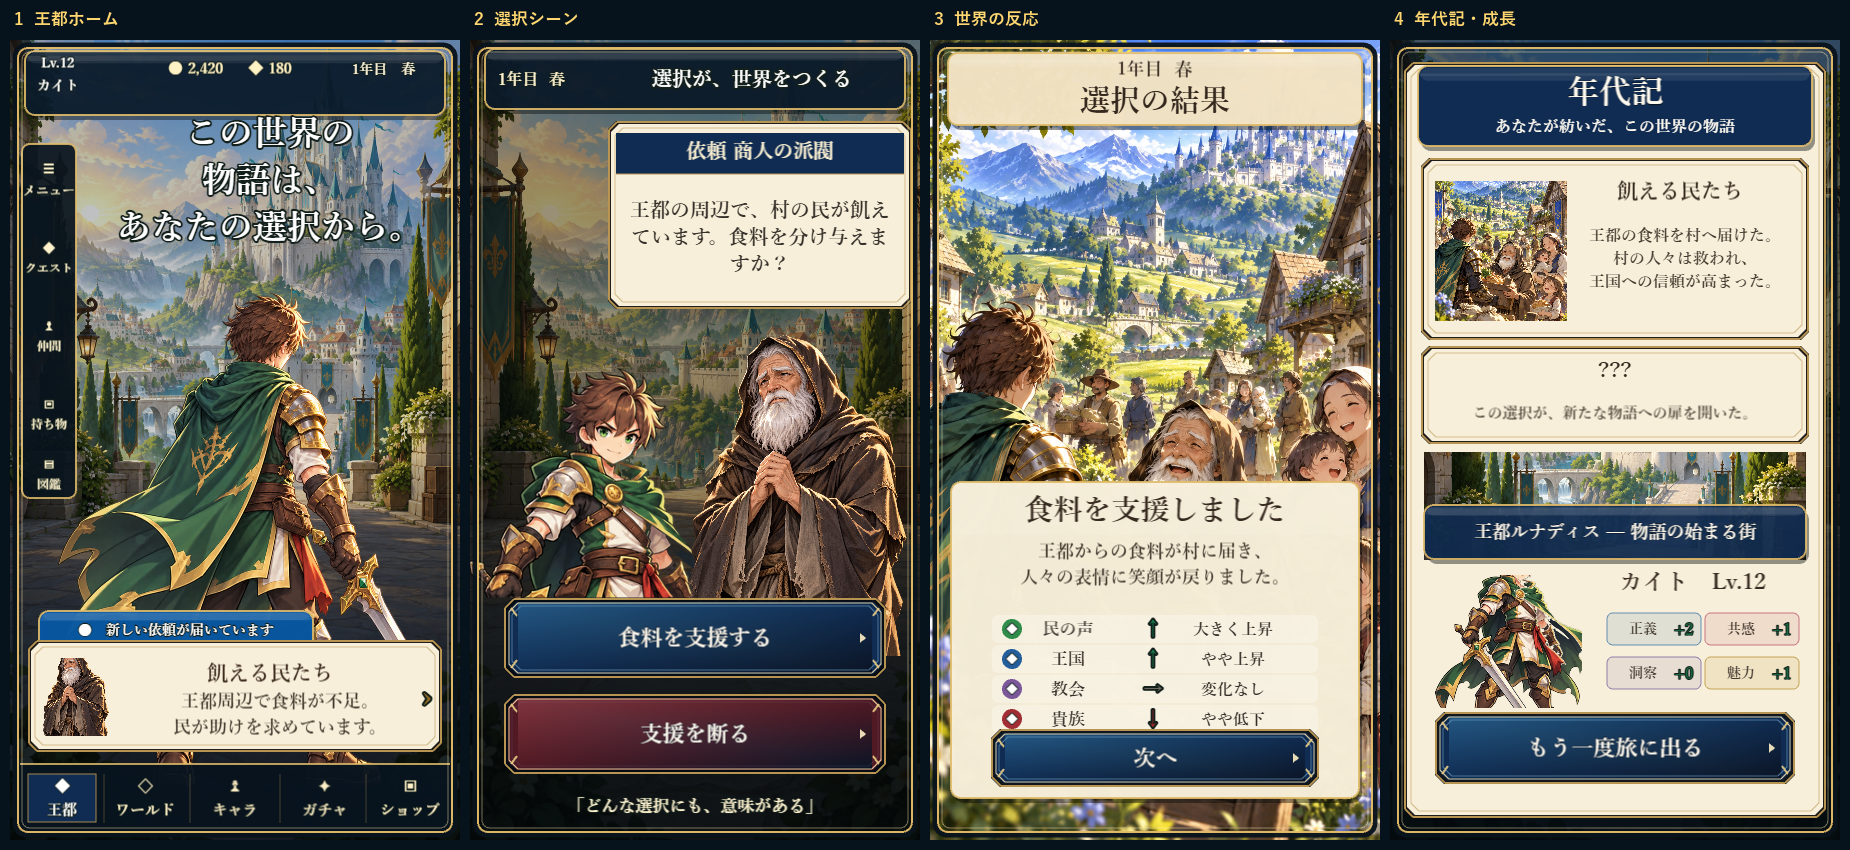
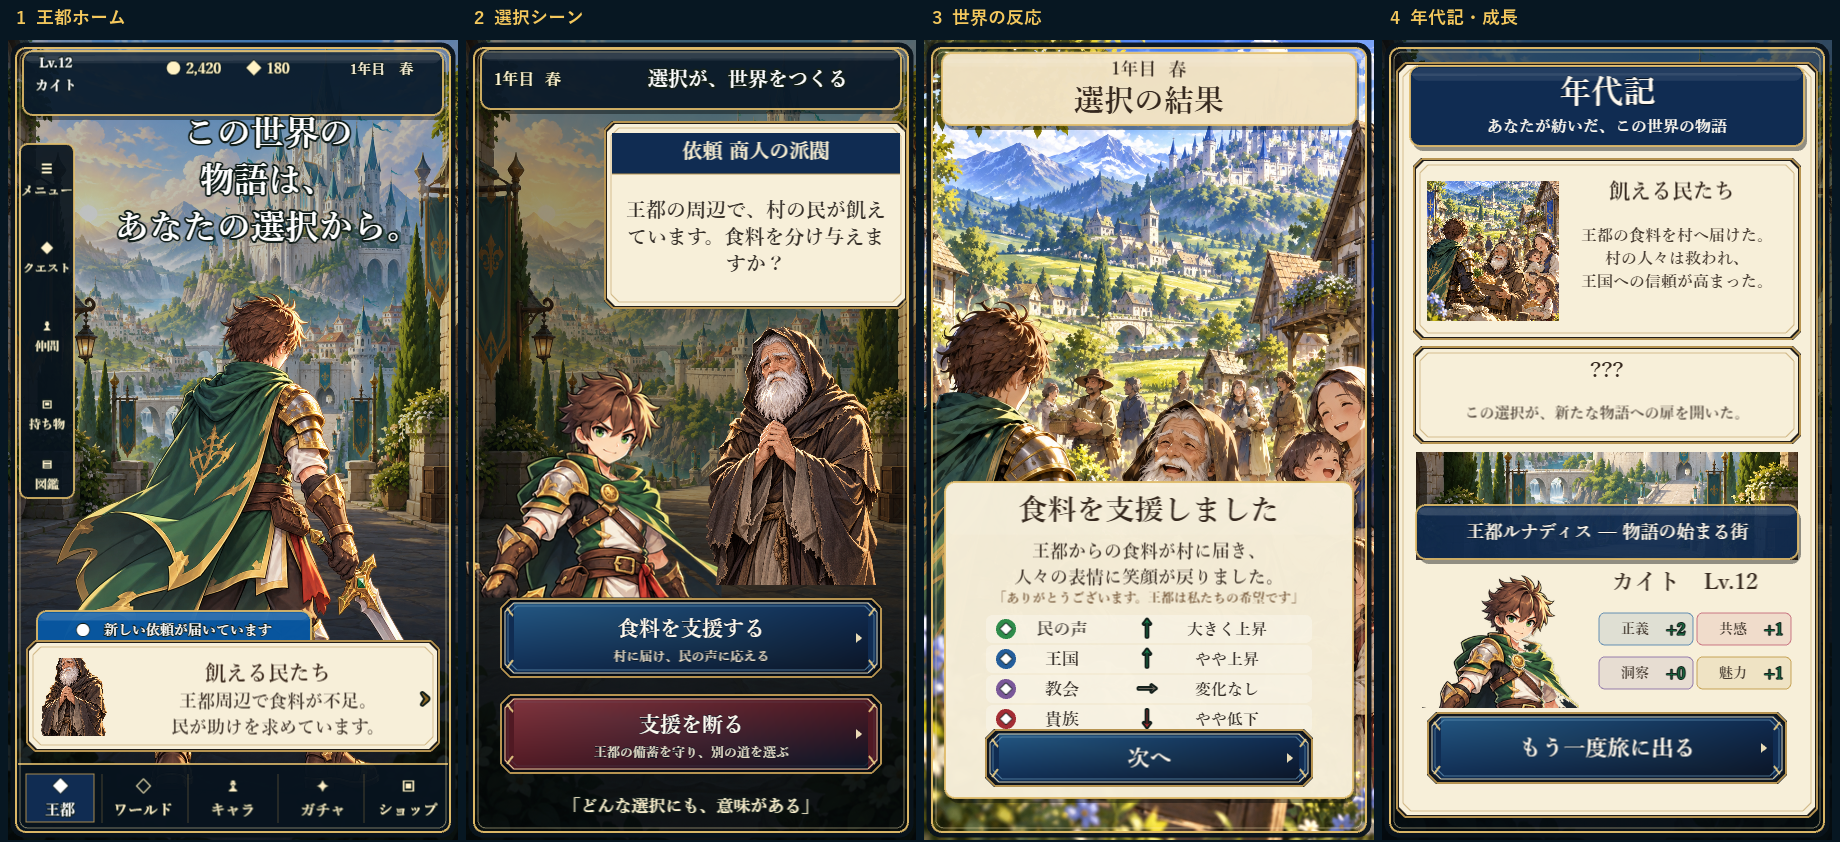
feat: finish karma mock interaction polish

diff --git a/games/karma-quest/src/conceptArt.ts b/games/karma-quest/src/conceptArt.ts
@@ -40,7 +40,7 @@ function invoke(scene: Runtime, key: string, ...args: unknown[]): unknown {
 }
 
 function text(scene: Phaser.Scene, root: Phaser.GameObjects.Container, x: number, y: number, value: string, size: number, color = "#fff8e8", weight = "700", width?: number): Phaser.GameObjects.Text {
-  const darkText = color === "#35281e" || color === "#352f29" || color === "#3c2a1e" || color === "#43382e";
+  const darkText = color === "#35281e" || color === "#352f29" || color === "#3c2a1e" || color === "#43382e" || color === "#6a4a2a";
   const object = scene.add.text(x, y, value, {
     fontFamily: '"Yu Mincho", "Hiragino Mincho ProN", serif', fontSize: `${size}px`, fontStyle: weight,
     color, align: "center", lineSpacing: 5, wordWrap: width ? { width, useAdvancedWrap: true } : undefined,
@@ -85,6 +85,17 @@ function artWindow(scene: Phaser.Scene, root: Phaser.GameObjects.Container, key:
   const cropX = (image.width - cropWidth) / 2, cropY = (image.height - cropHeight) / 2;
   image.setScale(scale).setPosition(x - cropX * scale, y - cropY * scale);
   image.setCrop(cropX, cropY, cropWidth, cropHeight);
+  root.add(image);
+}
+
+function bustWindow(scene: Phaser.Scene, root: Phaser.GameObjects.Container, key: string, x: number, y: number, width: number, height: number): void {
+  if (!scene.textures.exists(key)) return;
+  const image = scene.add.image(x, y, key).setOrigin(0);
+  const cropHeight = image.height * 0.42;
+  const cropWidth = Math.min(image.width, cropHeight * (width / height));
+  const cropX = (image.width - cropWidth) / 2;
+  const scale = Math.max(width / cropWidth, height / cropHeight);
+  image.setCrop(cropX, 0, cropWidth, cropHeight).setScale(scale).setPosition(x - cropX * scale, y);
   root.add(image);
 }
 
@@ -135,8 +146,21 @@ function metricChip(scene: Phaser.Scene, root: Phaser.GameObjects.Container, x: 
   text(scene, root, x + 30, y, value, 16, "#17663f", "900");
 }
 
-function button(scene: Runtime, root: Phaser.GameObjects.Container, x: number, y: number, width: number, height: number, label: string, fill: number, onClick: () => void): Phaser.GameObjects.Text {
+function button(
+  scene: Runtime,
+  root: Phaser.GameObjects.Container,
+  x: number,
+  y: number,
+  width: number,
+  height: number,
+  label: string,
+  fill: number,
+  onClick: () => void,
+  detail?: string,
+): Phaser.GameObjects.Text {
   const g = scene.add.graphics();
+  let armed = false;
+  let processing = false;
   const outline = (inset: number) => {
     const l = x - width / 2 + inset, r = x + width / 2 - inset;
     const t = y - height / 2 + inset, b = y + height / 2 - inset;
@@ -145,17 +169,19 @@ function button(scene: Runtime, root: Phaser.GameObjects.Container, x: number, y
       { x: r, y: b - cut }, { x: r - cut, y: b }, { x: l + cut, y: b },
       { x: l, y: b - cut }, { x: l, y: t + cut }].map(point => new Phaser.Math.Vector2(point.x, point.y));
   };
-  const paint = (pressed = false) => {
+  const paint = (state: "idle" | "focus" | "pressed" | "processing" = "idle") => {
     g.clear();
     const blue = fill === 0x0758a4;
     const base = blue ? 0x102c52 : 0x501923;
     g.fillStyle(0x050b13, 0.95).fillPoints(outline(0), true);
     g.fillStyle(base, 1).fillPoints(outline(4), true);
-    const top = pressed ? base : blue ? 0x235783 : 0x80343d;
+    const top = state === "pressed" ? base : blue ? 0x235783 : 0x80343d;
     g.fillGradientStyle(top, base, base, 0x0b1425, 1).fillRect(x - width / 2 + 14, y - height / 2 + 5, width - 28, height - 10);
     g.lineStyle(2, 0xb79451, 1).strokePoints(outline(1), true);
     g.lineStyle(1, 0xf4dfaa, 0.85).strokePoints(outline(5), true);
     g.lineStyle(1, 0x6192b4, blue ? 0.7 : 0.15).strokePoints(outline(8), true);
+    if (state === "focus") g.lineStyle(2, 0xffffff, 0.72).strokePoints(outline(8), true);
+    if (state === "processing") g.fillStyle(0x071017, 0.44).fillPoints(outline(5), true);
     // Small gold corner flourishes, matching the mock's inset metalwork.
     for (const side of [-1, 1]) {
       const edge = x + side * (width / 2 - 13);
@@ -167,12 +193,21 @@ function button(scene: Runtime, root: Phaser.GameObjects.Container, x: number, y
   };
   paint();
   root.add(g);
-  const labelText = text(scene, root, x, y, label, 22, "#fffaf0", "900", width - 70).setStroke("#091420", 1);
-  const zone = scene.add.zone(x, y, width, height).setInteractive({ useHandCursor: true });
+  const labelText = text(scene, root, x, detail ? y - 10 : y, label, detail ? 21 : 22, "#fffaf0", "900", width - 70).setStroke("#091420", 1);
+  if (detail) text(scene, root, x, y + 18, detail, 13, "#eadfca", "700", width - 76).setStroke("#091420", 1);
+  const zone = scene.add.zone(x, y, width, height).setName(`cta:${label}`).setInteractive({ useHandCursor: true });
   root.add(zone);
-  zone.on("pointerdown", () => { paint(true); onClick(); });
-  zone.on("pointerup", () => paint(false));
-  zone.on("pointerout", () => paint(false));
+  zone.on("pointerover", () => { if (!processing) paint("focus"); });
+  zone.on("pointerdown", () => { if (!processing) { armed = true; paint("pressed"); } });
+  zone.on("pointerup", () => {
+    if (!armed || processing) return;
+    armed = false;
+    processing = true;
+    paint("processing");
+    onClick();
+    scene.time.delayedCall(280, () => { processing = false; paint("idle"); });
+  });
+  zone.on("pointerout", () => { armed = false; if (!processing) paint("idle"); });
   return labelText;
 }
 
@@ -252,8 +287,8 @@ function buildChoice(scene: Runtime): Pick<MockUi, "choiceRoot" | "yearText" | "
   const requestTitle = text(scene, root, 290, 111, "", 20, "#35281e", "900", 270);
   const requestText = text(scene, root, 290, 197, "", 20, "#352f29", "700", 270);
   requestTitle.setColor("#fff4d5");
-  const acceptLabel = button(scene, root, 225, 598, 382, 80, "食料を支援する", 0x0758a4, () => invoke(scene, "onKarmaChoice", true));
-  button(scene, root, 225, 694, 382, 80, "支援を断る", 0x981d25, () => invoke(scene, "onKarmaChoice", false));
+  const acceptLabel = button(scene, root, 225, 598, 382, 80, "食料を支援する", 0x0758a4, () => invoke(scene, "onKarmaChoice", true), "村に届け、民の声に応える");
+  button(scene, root, 225, 694, 382, 80, "支援を断る", 0x981d25, () => invoke(scene, "onKarmaChoice", false), "王都の備蓄を守り、別の道を選ぶ");
   text(scene, root, 225, 766, "「どんな選択にも、意味がある」", 17, "#fff3d0", "700");
   screenFrame(scene, root);
   return { choiceRoot: root, yearText, requestTitle, requestText, acceptLabel };
@@ -268,6 +303,7 @@ function buildReaction(scene: Runtime): Pick<MockUi, "reactionRoot" | "reactionT
   panel(scene, root, 225, 600, 408, 316, 0xf7efd9, 0.98);
   const reactionTitle = text(scene, root, 225, 470, "食料を支援しました", 29, "#35281e", "900");
   const reactionBody = text(scene, root, 225, 524, "王都からの食料が村に届き、\n人々の表情に笑顔が戻りました。", 18, "#43382e", "700", 360);
+  text(scene, root, 225, 558, "「ありがとうございます。王都は私たちの希望です」", 13, "#6a4a2a", "700", 350);
   const effectRows = [
     effectRow(scene, root, 589, 0x2f8c4b, "民の声", "↑", "大きく上昇"),
     effectRow(scene, root, 619, 0x245e9b, "王国", "↑", "やや上昇"),
@@ -305,7 +341,7 @@ function buildFinal(scene: Runtime): Phaser.GameObjects.Container {
   artWindow(scene, root, BG_KEY, 34, 412, 382, 108);
   panel(scene, root, 225, 492, 382, 54, 0x102c52, 0.9);
   text(scene, root, 225, 491, "王都ルナディス — 物語の始まる街", 18, "#fffaf0", "900").setStroke("#091420", 1);
-  artWindow(scene, root, "kq-hero-warrior", 40, 535, 157, 133);
+  bustWindow(scene, root, "kq-hero-warrior", 40, 535, 157, 133);
   text(scene, root, 303, 542, "カイト　Lv.12", 23, "#35281e", "900");
   metricChip(scene, root, 264, 589, "正義", "+2", 0x2e6ba3);
   metricChip(scene, root, 362, 589, "共感", "+1", 0xb84a63);

diff --git a/games/karma-quest/src/mobileLayout.ts b/games/karma-quest/src/mobileLayout.ts
@@ -86,22 +86,34 @@ function panel(scene: Phaser.Scene, root: Phaser.GameObjects.Container, x: numbe
 
 function button(scene: Runtime, root: Phaser.GameObjects.Container, x: number, y: number, w: number, h: number, value: string, action: () => void, accent: number): void {
   const g = scene.add.graphics();
-  const paint = (pressed = false) => {
+  let armed = false;
+  let processing = false;
+  const paint = (state: "idle" | "focus" | "pressed" | "processing" = "idle") => {
     g.clear();
-    const color = pressed ? Phaser.Display.Color.ValueToColor(accent).darken(12).color : accent;
+    const color = state === "pressed" ? Phaser.Display.Color.ValueToColor(accent).darken(12).color : accent;
     g.fillStyle(0x07110d, 0.28).fillRoundedRect(x - w / 2 + 3, y - h / 2 + 4, w, h, 13);
     g.fillStyle(color, 0.98).fillRoundedRect(x - w / 2, y - h / 2, w, h, 13);
     g.fillStyle(0xffffff, 0.12).fillRoundedRect(x - w / 2 + 2, y - h / 2 + 2, w - 4, h * 0.26, 10);
     g.lineStyle(1.6, 0xf0d394, 0.68).strokeRoundedRect(x - w / 2, y - h / 2, w, h, 13);
+    if (state === "focus") g.lineStyle(2, 0xffffff, 0.72).strokeRoundedRect(x - w / 2 + 4, y - h / 2 + 4, w - 8, h - 8, 10);
+    if (state === "processing") g.fillStyle(0x07110d, 0.42).fillRoundedRect(x - w / 2 + 3, y - h / 2 + 3, w - 6, h - 6, 10);
   };
   paint();
   root.add(g);
   text(scene, root, x, y, value, 15, "#fff7e9", "900");
   const hit = scene.add.zone(x, y, w, Math.max(52, h)).setInteractive({ useHandCursor: true });
   root.add(hit);
-  hit.on("pointerdown", () => { paint(true); action(); });
-  hit.on("pointerup", () => paint(false));
-  hit.on("pointerout", () => paint(false));
+  hit.on("pointerover", () => { if (!processing) paint("focus"); });
+  hit.on("pointerdown", () => { if (!processing) { armed = true; paint("pressed"); } });
+  hit.on("pointerup", () => {
+    if (!armed || processing) return;
+    armed = false;
+    processing = true;
+    paint("processing");
+    action();
+    scene.time.delayedCall(280, () => { processing = false; paint("idle"); });
+  });
+  hit.on("pointerout", () => { armed = false; if (!processing) paint("idle"); });
 }
 
 function world(scene: Phaser.Scene, root: Phaser.GameObjects.Container): void {
@@ -208,10 +220,9 @@ function build(scene: Runtime): LandscapeUi {
 function targetSize(
   scene: Runtime,
   landscape: boolean,
-  specialLandscape: boolean,
   safe: { safeLeft: number; safeRight: number; safeTop: number; safeBottom: number } | null,
 ): void {
-  const target = landscape && specialLandscape ? { width: 800, height: 450 } : { width: 450, height: 800 };
+  const target = landscape ? { width: 800, height: 450 } : { width: 450, height: 800 };
   if (scene.scale.gameSize.width !== target.width || scene.scale.gameSize.height !== target.height) {
     scene.scale.resize(target.width, target.height);
   }
@@ -236,7 +247,7 @@ function refresh(scene: Runtime): void {
   const layout = getResponsiveLayout(scene as never);
   const physicalLandscape = !!layout && !layout.isPortrait;
   const mobilePhase = scene.phase === "title" || scene.phase === "karma";
-  targetSize(scene, physicalLandscape, mobilePhase, layout);
+  targetSize(scene, physicalLandscape, layout);
 
   const ui = build(scene);
   const active = physicalLandscape && mobilePhase;

diff --git a/games/karma-quest/e2e/game.spec.ts b/games/karma-quest/e2e/game.spec.ts
@@ -90,6 +90,10 @@ test("touch starts a journey and a choice records a deed after rotation", async 
   await tapPoint(page, 510, 385);
   await expect.poll(async () => !(await page.locator("canvas").screenshot()).equals(before)).toBe(true);
   await expect.poll(() => phase(page)).not.toBe("karma");
+  await expect.poll(() => page.locator("canvas").evaluate(node => ({
+    width: (node as HTMLCanvasElement).width,
+    height: (node as HTMLCanvasElement).height,
+  }))).toEqual({ width: 800, height: 450 });
   await checkFrame(page, "landscape-after-choice");
 });
 

diff --git a/docs/TODO.md b/docs/TODO.md
@@ -8,7 +8,7 @@
 - [x] 同基準を依頼カード、ホームナビ・HUD、年代記・結果へ適用
 - [ ] 横画面へ同基準を適用
 - [x] 320×568、360×640、375×667で実表示とタップ領域を確認し、主要CTA 52px以上を維持
-- [ ] ボタンのフォーカス・無効・処理中状態とpointerup確定を共通部品へ実装
+- [x] 縦横の主要ボタンへフォーカス・押下・処理中状態とpointerup確定を実装
 
 ## 2026-09-14 スマホ横持ち表示とブラウザテスト整備
 
